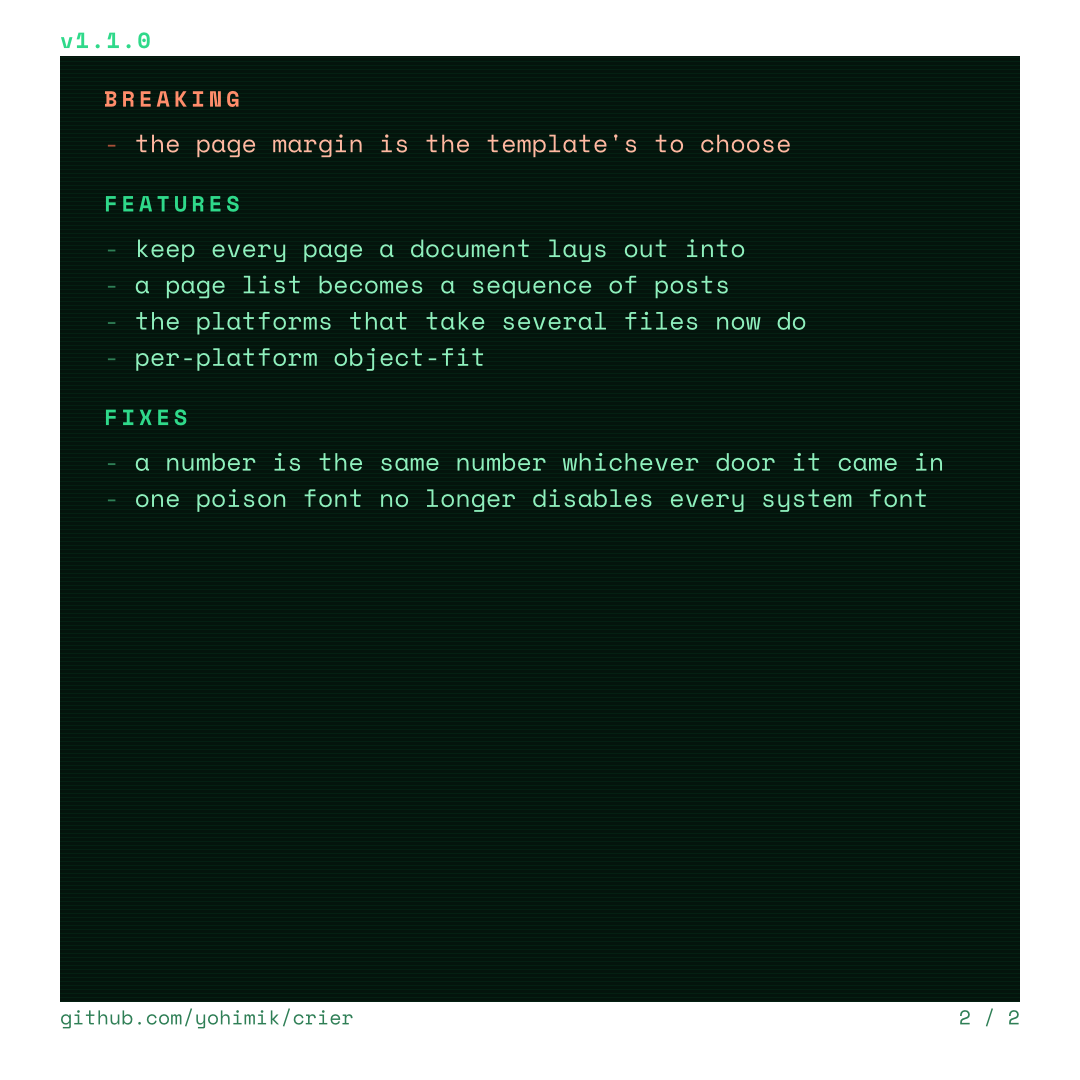
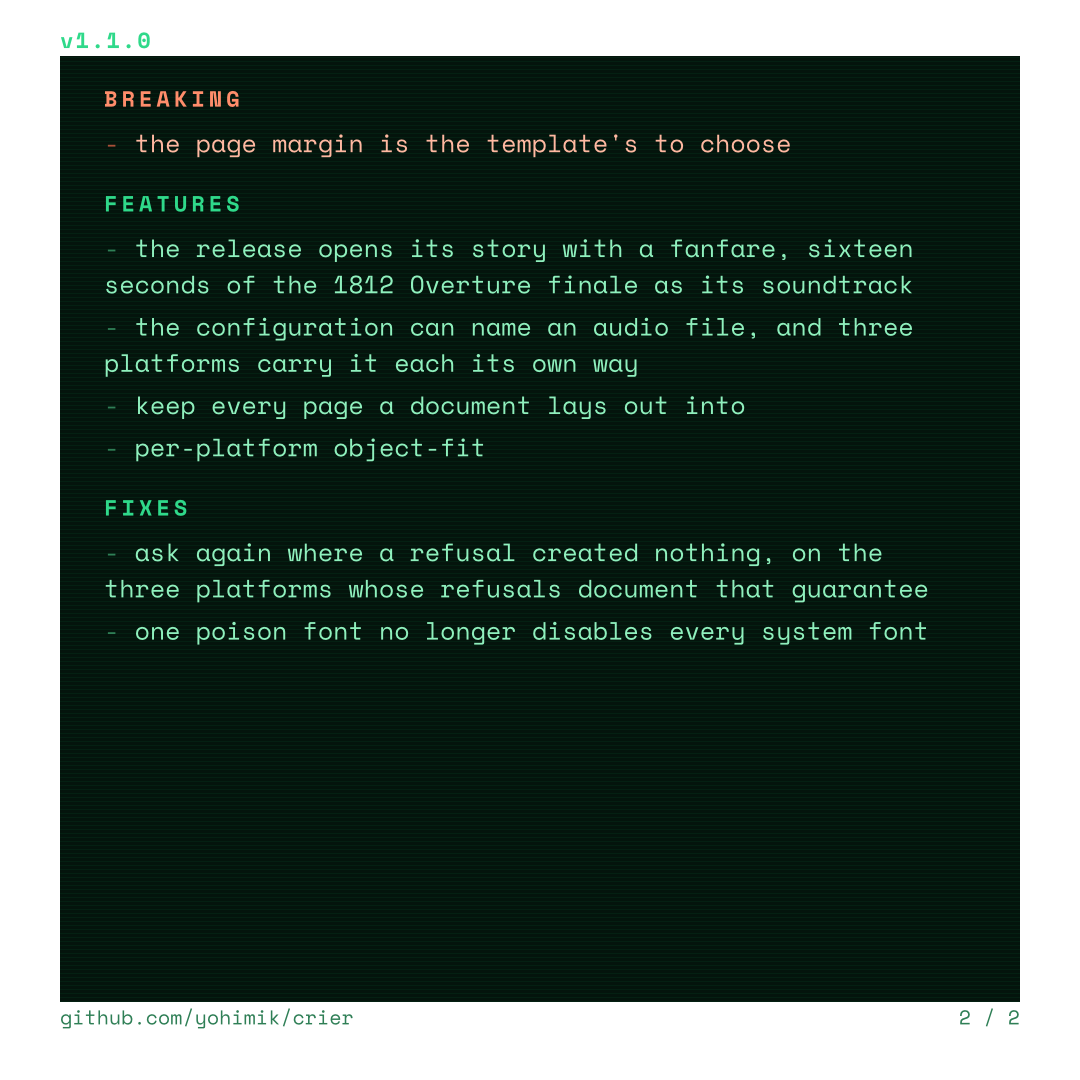
fix(crier): a long entry wraps instead of losing its ending
One line per entry was the single-page card's economy. A paginated card
can afford the truth: up to three lines each, then the multi-line clamp,
and an unbroken run breaks anywhere rather than escaping. A long entry
costing three lines is what pushes its neighbours onto the next page,
which is the point of having pages.

diff --git a/announce/template.html b/announce/template.html
@@ -122,11 +122,15 @@
   .section ul { margin: 0; padding: 0; list-style: none }
   .section li {
     font-size: 25px; line-height: 1.45; color: #8ff0bd;
-    /* A release subject is as long as somebody wrote it. One line each,
-       ellipsised — see docs/templates/text-overflow.md. Pagination gives the
-       card more room for entries, not for longer ones: a wall of wrapped
-       prose is not what anybody reads a release card for. */
-    overflow: hidden; text-overflow: ellipsis; white-space: nowrap;
+    margin-bottom: 6px;
+    /* A release subject is as long as somebody wrote it, and the card is
+       paginated, so long ones wrap: up to three lines each, then the
+       multi-line clamp from docs/templates/text-overflow.md. An unbroken
+       run with no spaces in it breaks anywhere rather than escaping the
+       card. A long entry costing three lines is what pushes its neighbours
+       onto the next page, which is the point of having pages. */
+    overflow: hidden; overflow-wrap: break-word;
+    max-lines: 3; continue: discard; block-ellipsis: auto;
     break-inside: avoid;
   }
   .section li:before { content: "- "; color: #2f7f56 }
